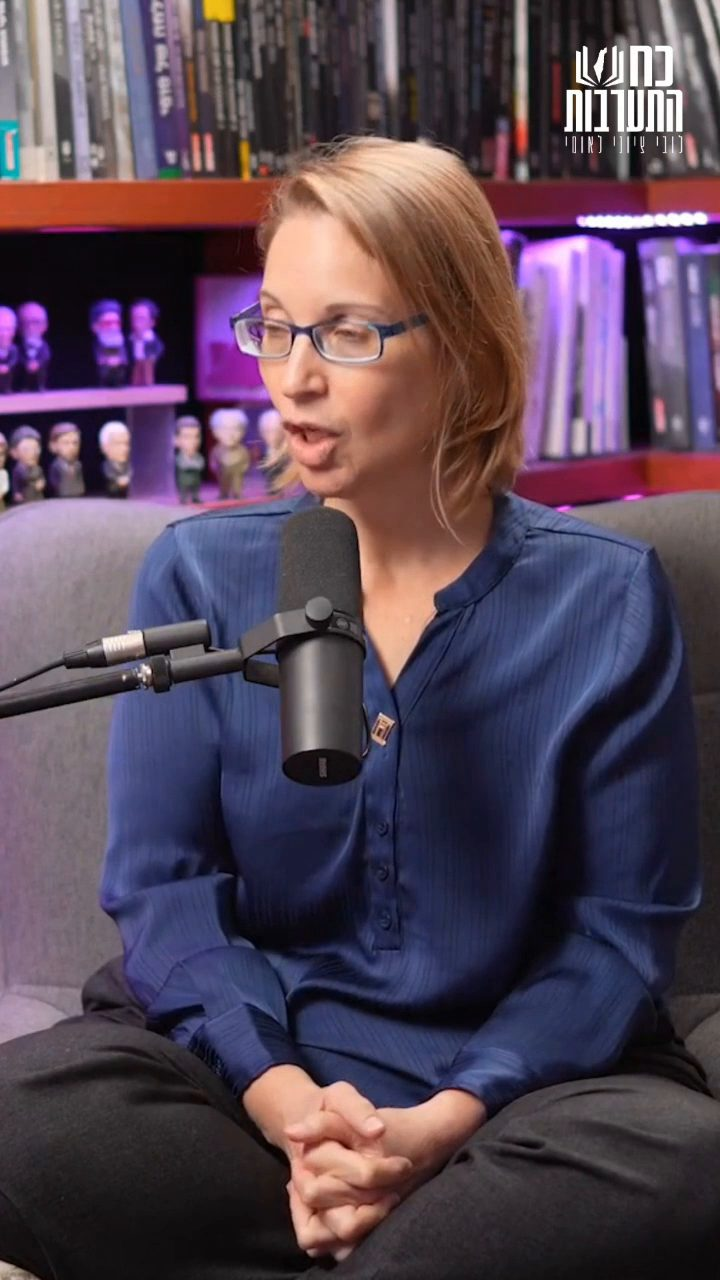
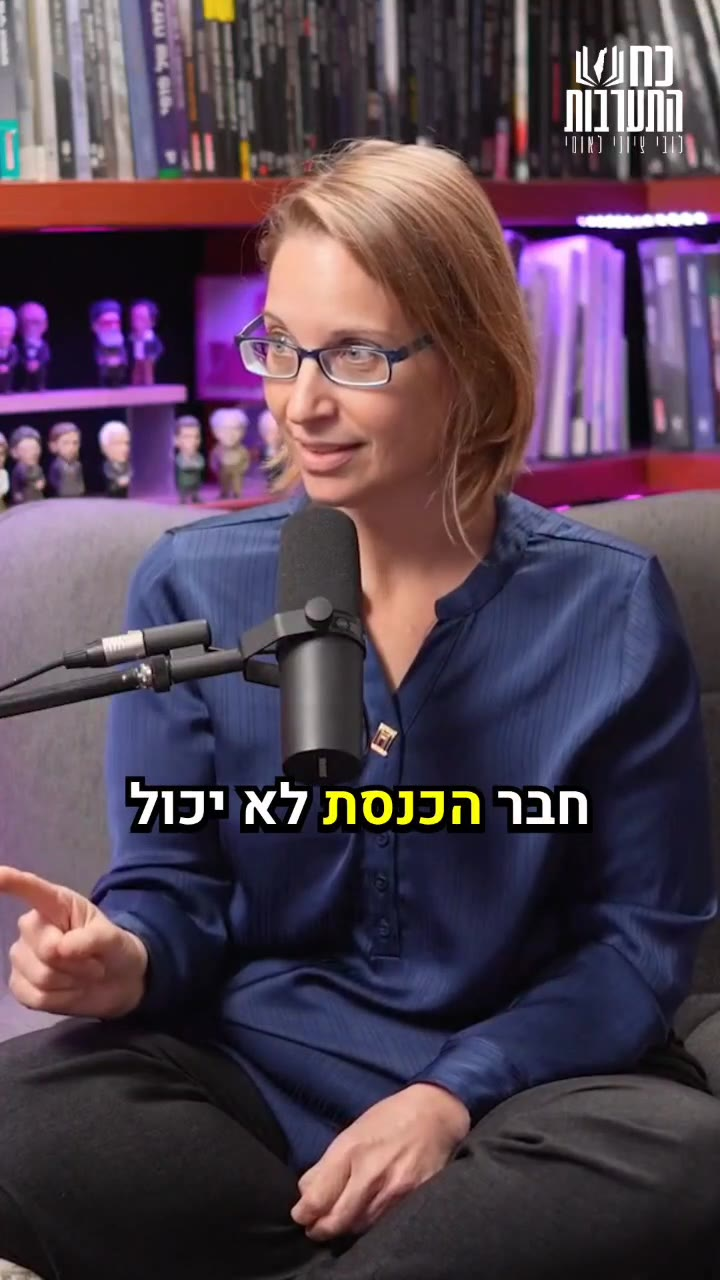
/knesset: new video poster, hero crops instead of Noga stills
Claude-Session: https://claude.ai/code/session_01WfZb2SXbgJ7fh2512yBrA8

diff --git a/knesset/join.css b/knesset/join.css
@@ -115,7 +115,7 @@ h3 { font-size: var(--step-m); font-weight: 800; line-height: 1.2; }
 .zero__num { font-size: clamp(160px, 26vw, 420px); font-weight: 900; line-height: .8; color: var(--red); letter-spacing: -.04em; }
 .zero h2 { font-size: var(--step-l); margin-top: 24px; }
 .zero__text > p:last-child { margin-top: 24px; font-size: var(--step-m); max-width: 34ch; }
-.zero__img { width: 100%; max-width: 440px; height: auto; justify-self: center; filter: grayscale(1) contrast(1.05); }
+.zero__img { width: 100%; height: auto; aspect-ratio: 4 / 3; object-fit: cover; }
 
 /* Plan */
 .plan { padding: var(--gap) var(--margin) 0; }
@@ -145,7 +145,7 @@ h3 { font-size: var(--step-m); font-weight: 800; line-height: 1.2; }
 .join h2 { font-size: var(--step-xl); }
 .join__text > p { margin-top: 28px; font-size: var(--step-m); max-width: 32ch; }
 .join__text > .join__fact { font-weight: 900; font-size: var(--step-m); }
-.join__img { margin-top: 56px; width: min(78%, 440px); height: auto; filter: grayscale(.2) contrast(1.05); }
+.join__img { margin-top: 56px; width: min(100%, 560px); height: auto; }
 .join__form {
   align-self: start;
   background: var(--ground); padding: clamp(20px, 2.4vw, 32px);
@@ -206,7 +206,7 @@ h3 { font-size: var(--step-m); font-weight: 800; line-height: 1.2; }
   .join__form { margin: 0 calc(-1 * var(--margin)); order: 1; }
   .join__text { display: contents; }
   .join__text > * { order: 0; }
-  .join__img { order: 2; width: 100%; margin: 40px 0 0; height: 44svh; object-fit: cover; object-position: 50% 25%; }
+  .join__img { order: 2; width: 100%; margin: 40px 0 0; height: auto; }
   .join { display: flex; flex-direction: column; gap: 0; }
   .join__form { margin-top: 40px !important; }
   .hero h1 { font-size: 7.9vw; }

diff --git a/knesset/index.html b/knesset/index.html
@@ -53,7 +53,7 @@
     </section>
 
     <section class="zero" aria-labelledby="zero-title">
-      <img class="zero__img" src="assets/zero.jpg" alt="נגה ארבל אומרת: אפס" width="720" height="900" loading="lazy">
+      <img class="zero__img" src="assets/plenum.jpg" alt="מושבי מליאת הכנסת הריקים" width="1264" height="940" loading="lazy">
       <div class="zero__text">
         <p class="zero__num" aria-hidden="true" data-rise>0</p>
         <h2 id="zero-title" data-rise>אפס פעמים.</h2>
@@ -91,7 +91,7 @@
         <p data-rise>זה כל מה שצריך כדי להיות חלק מהמאבק. הצטרפו לתומכי כח התערבות ב-₪30 בחודש, ותקבלו עדכון ראשון על כל צעד במהלך, ישירות דרך הניוזלטר שלנו.</p>
         <p class="join__fact" data-rise>₪30 בחודש · הוראת קבע</p>
         <p data-rise>מיד אחרי התרומה ייפתח לכם וואטסאפ עם פנייה מוכנה ליו״ר הכנסת, אמיר אוחנה. נשאר רק לשלוח.</p>
-        <img class="join__img" src="assets/noga.jpg" alt="נגה ארבל באולפן" width="720" height="760" loading="lazy">
+        <img class="join__img" src="assets/chains.jpg" alt="הצעות חוק כבולות בשרשרת ומנעול אדום" width="1140" height="602" loading="lazy">
       </div>
       <div class="join__side">
         <div class="join__form" id="peach" data-rise>
